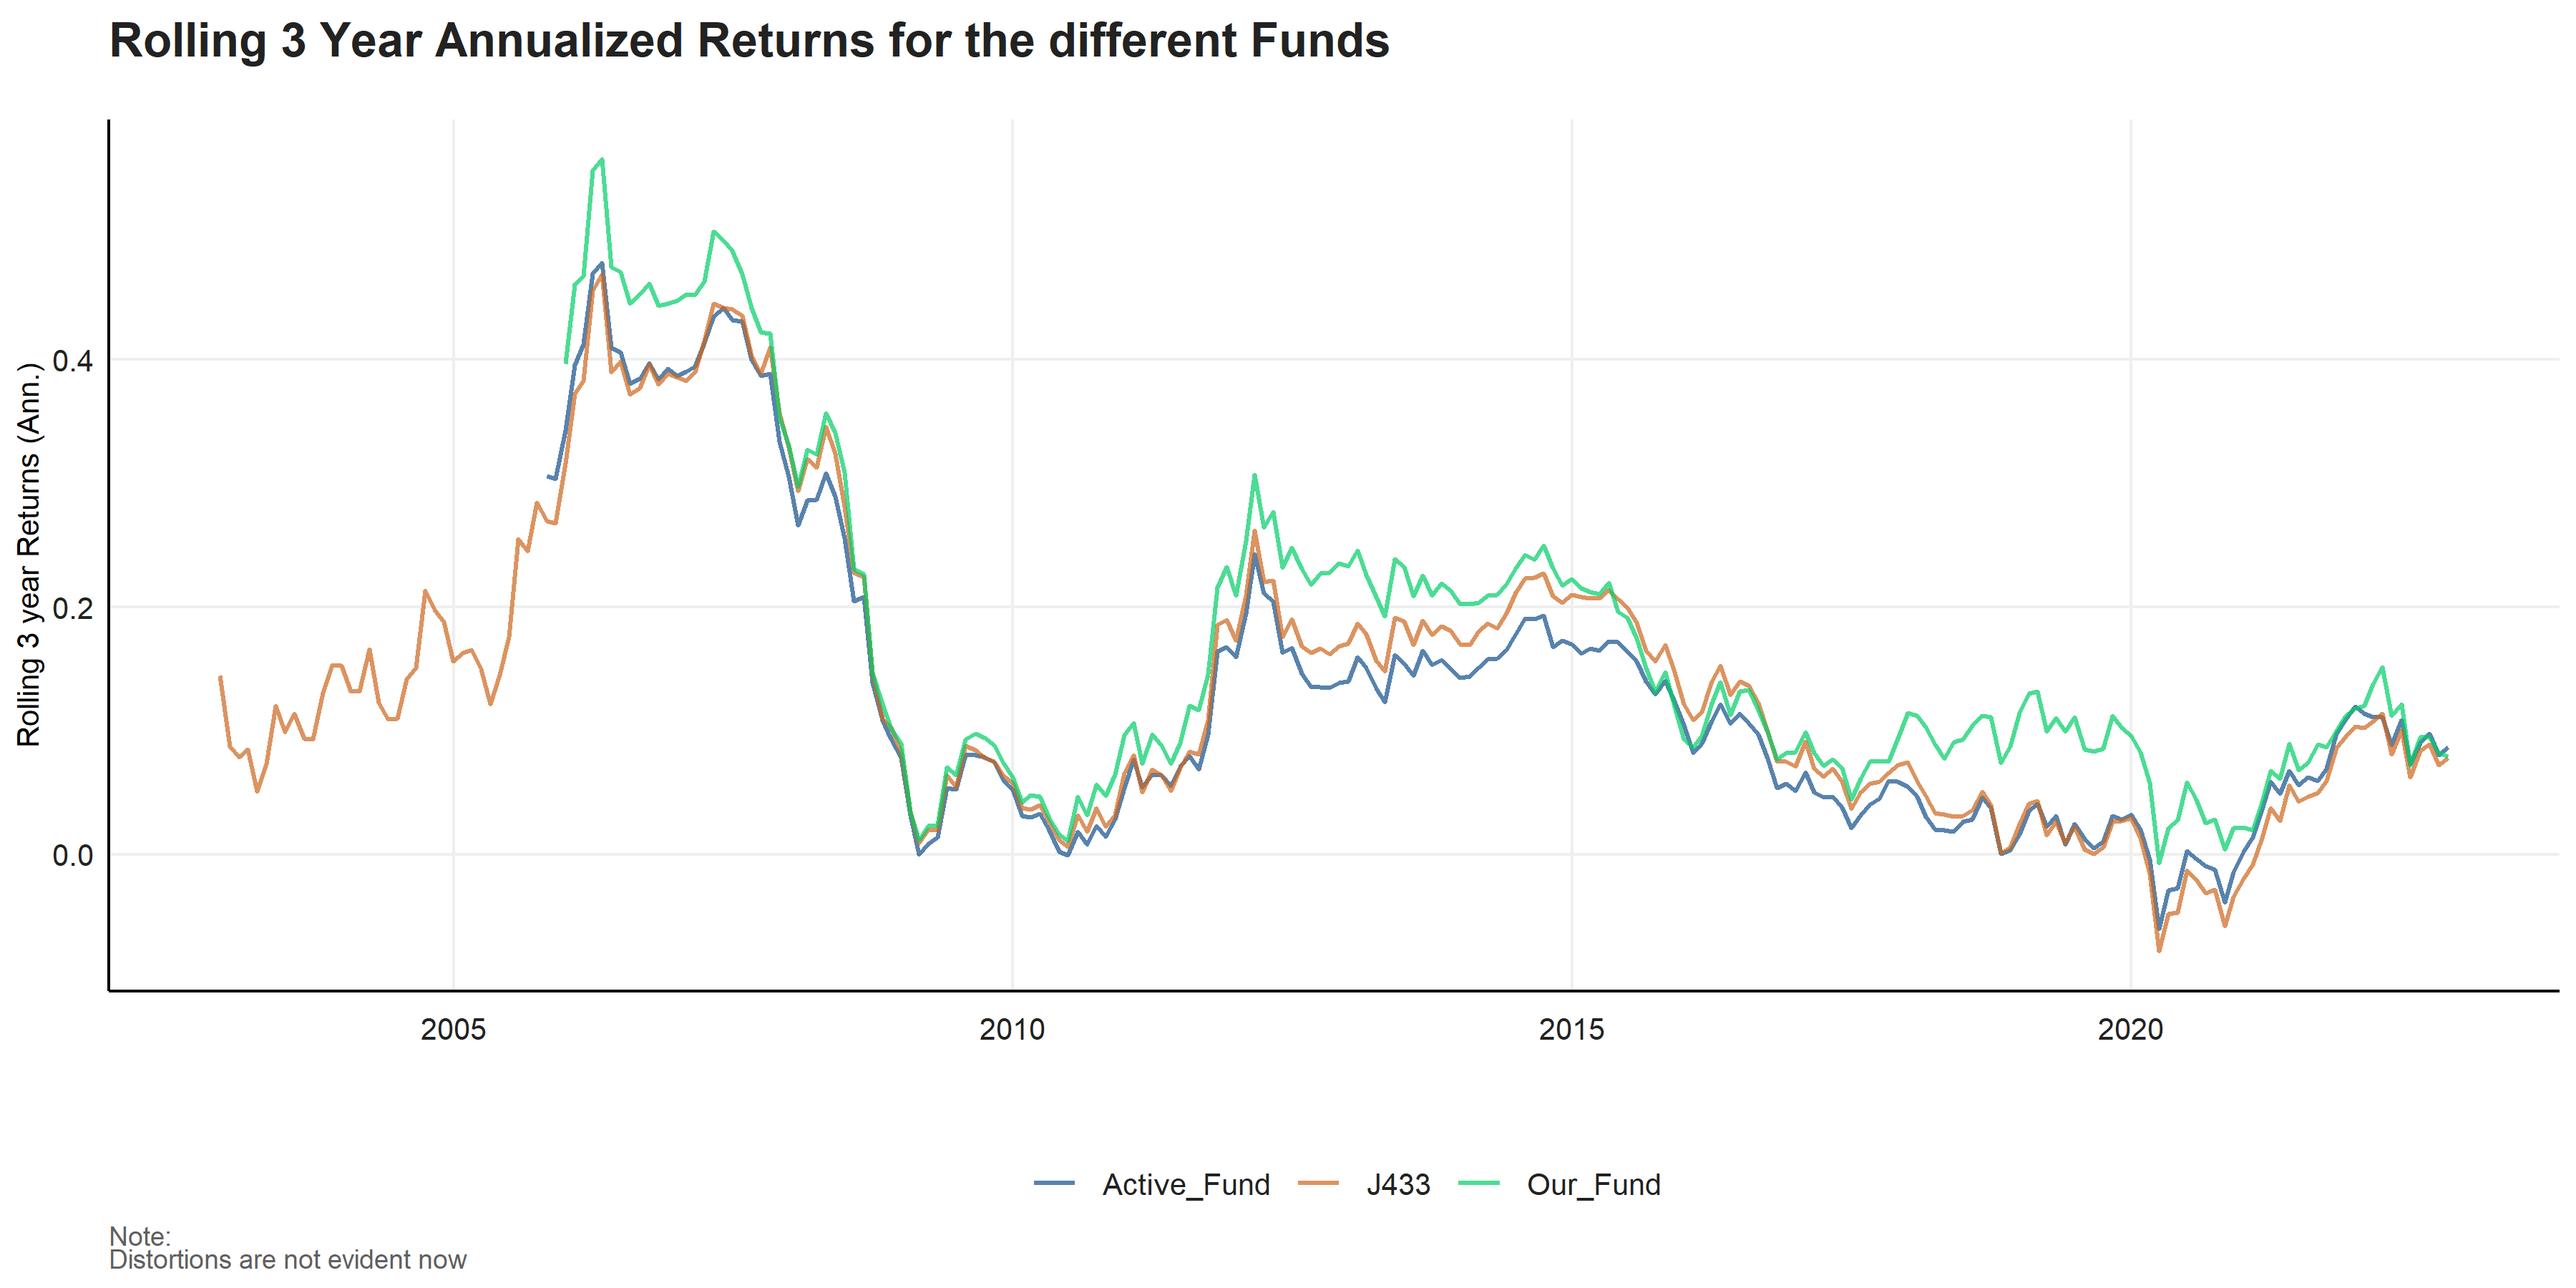
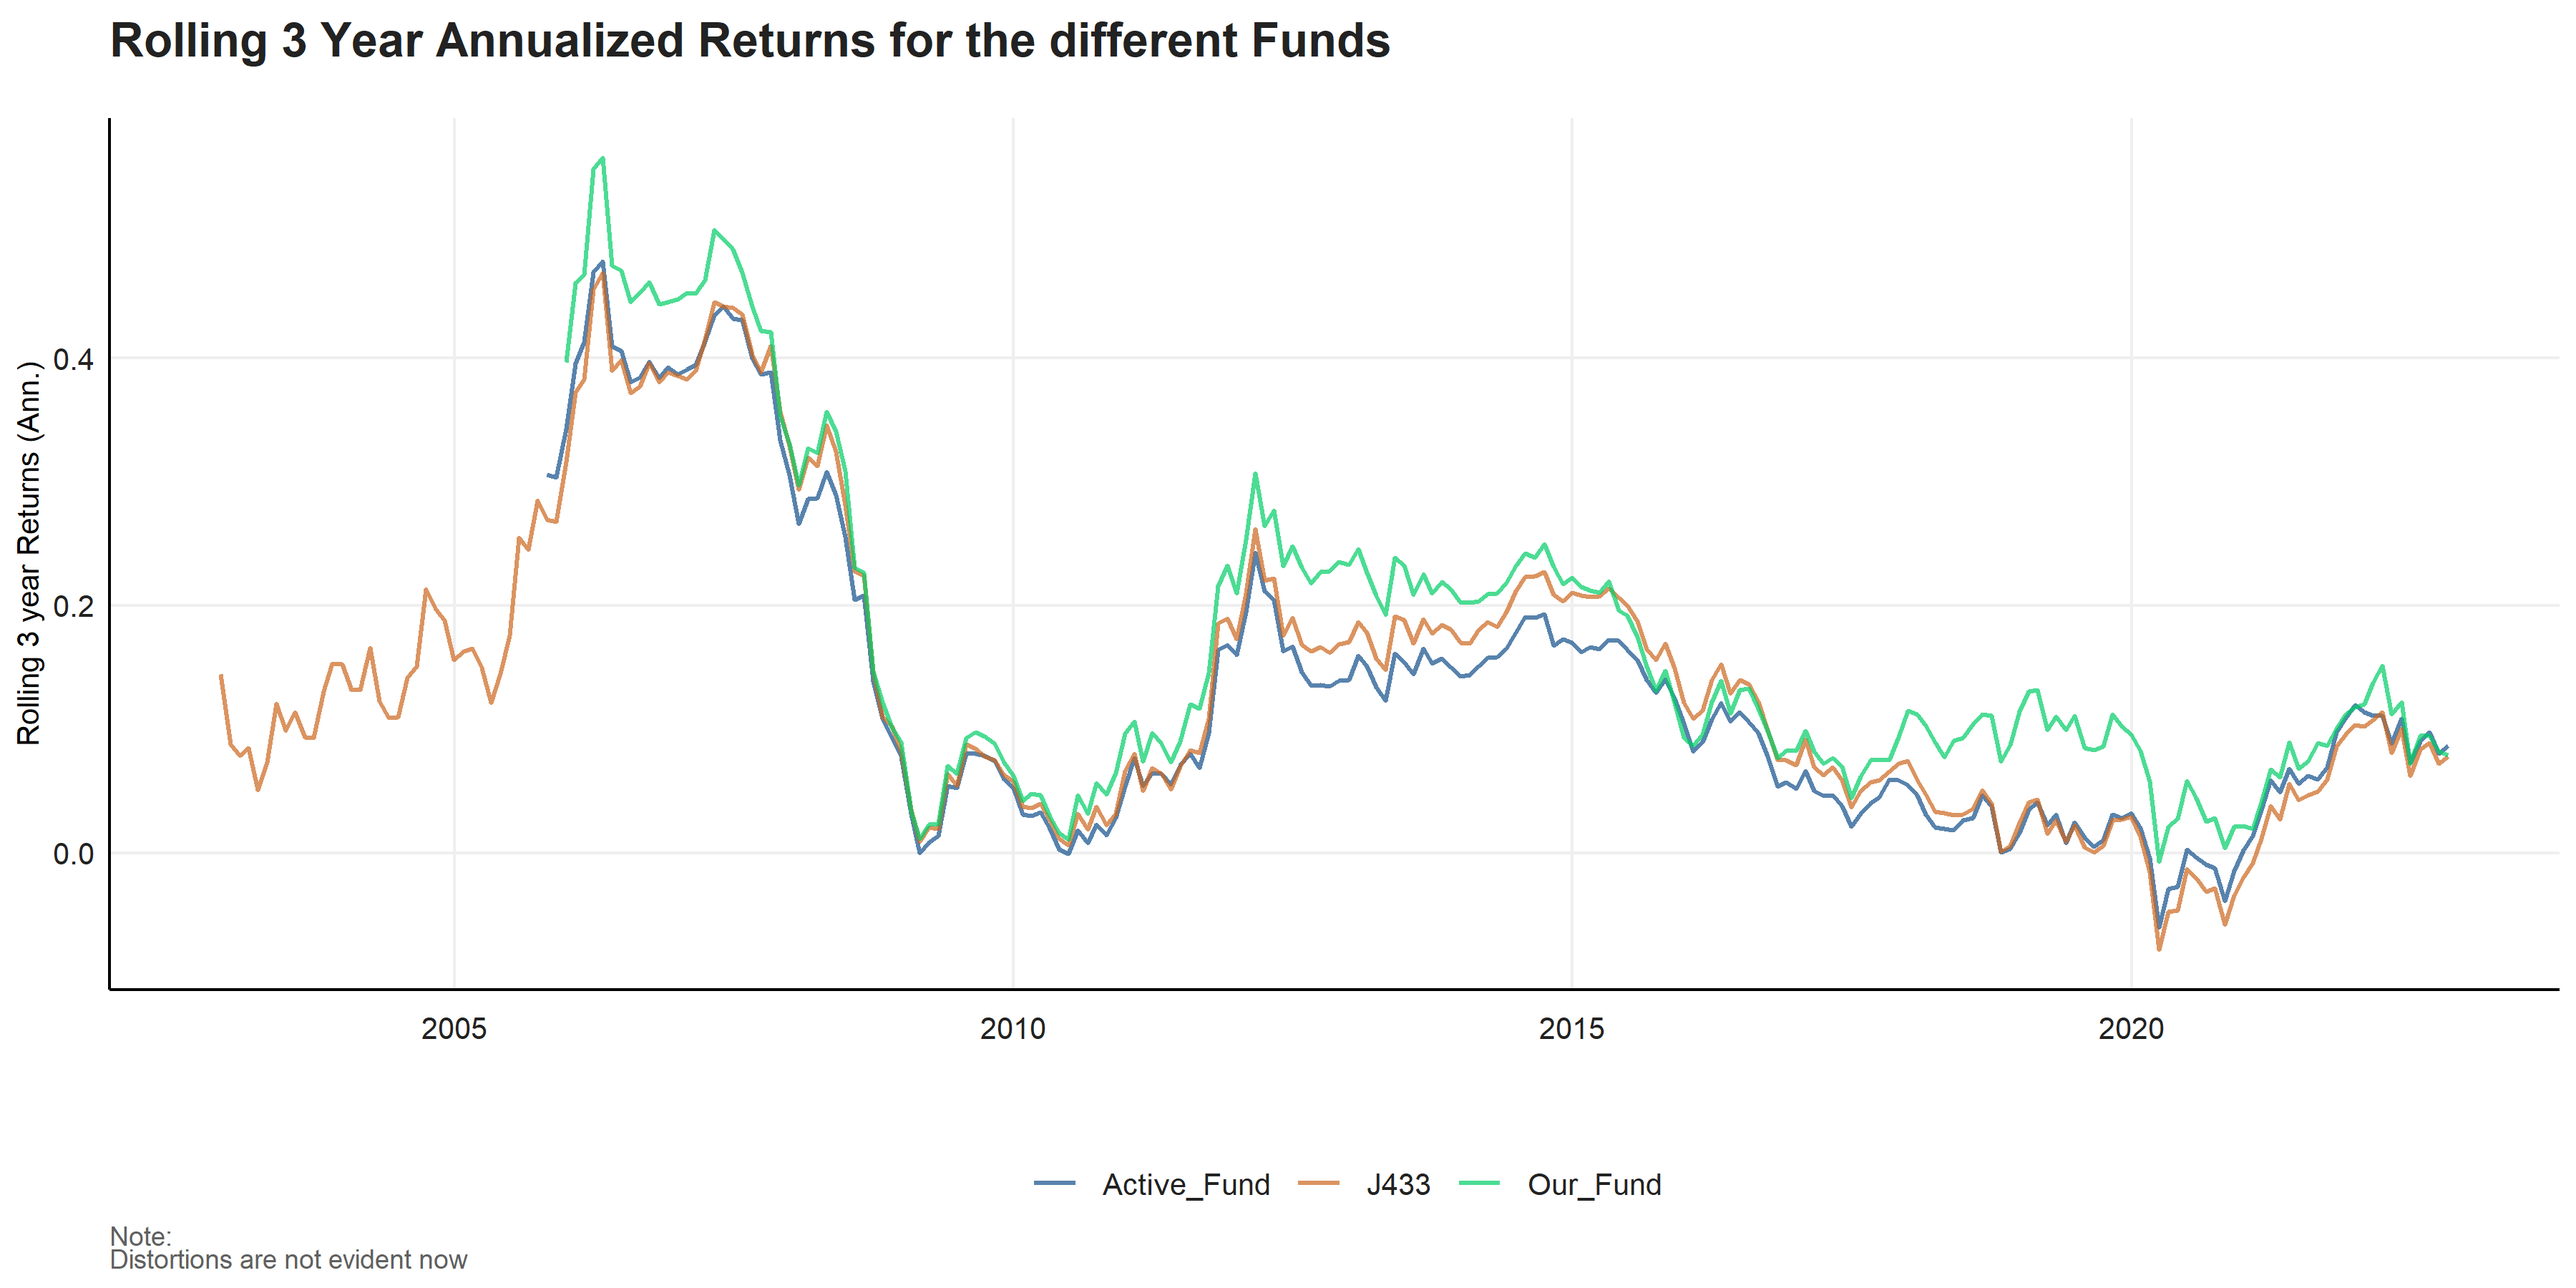
Final  :+1:

diff --git a/README.md b/README.md
@@ -1,44 +1,11 @@
 # Financial Econometrics Practical
 
-This is my README for the Financial Econometrics Practical Exam 2022
+This README contains all my solutions for the Financial Econometrics
+Practical Exam 2022. All the functions I use throughout are located in
+the code folder.
 
 ``` r
-#rm(list = ls()) 
-#gc() 
-
-library(tidyverse)
-```
-
-    ## -- Attaching packages --------------------------------------- tidyverse 1.3.2 --
-    ## v ggplot2 3.4.0      v purrr   0.3.4 
-    ## v tibble  3.1.7      v dplyr   1.0.10
-    ## v tidyr   1.2.0      v stringr 1.4.0 
-    ## v readr   2.1.2      v forcats 0.5.1 
-    ## -- Conflicts ------------------------------------------ tidyverse_conflicts() --
-    ## x dplyr::filter() masks stats::filter()
-    ## x dplyr::lag()    masks stats::lag()
-
-``` r
-library(zoo)
-```
-
-    ## 
-    ## Attaching package: 'zoo'
-    ## 
-    ## The following objects are masked from 'package:base':
-    ## 
-    ##     as.Date, as.Date.numeric
-
-``` r
-library(factoextra)
-```
-
-    ## Welcome! Want to learn more? See two factoextra-related books at https://goo.gl/ve3WBa
-
-``` r
-pacman::p_load("MTS", "robustbase")
-
-pacman::p_load("tidyverse", "devtools", "rugarch", "rmgarch", 
+pacman::p_load("tidyverse", "devtools", "rugarch", "rmgarch", "zoo", "factoextra",
      "forecast", "tbl2xts", "lubridate", "PerformanceAnalytics", 
      "ggthemes", "dplyr", "cowplot", "fmxdat", "glue","MTS", "robustbase","tidyr") 
 
@@ -140,7 +107,7 @@ labs(title = "Cumulative Returns of Funds",
      
     subtitle = "", caption = "Note:\nStarting dates differ") +
     
-    theme_fmx(title.size = ggpts(40), subtitle.size = ggpts(5), 
+    theme_fmx(title.size = ggpts(50), subtitle.size = ggpts(5),
               
         caption.size = ggpts(25), CustomCaption = T)
 
@@ -209,7 +176,7 @@ RollSD_gg <- RollSD_combine_funds %>%
     
     ggplot() + 
     
-    geom_line(aes(date, RollRets, color = Tickers), alpha = 0.7, size = 1.25) + 
+    geom_line(aes(date, RollRets, color = Tickers), alpha = 0.7, size = 0.75) + 
     
     labs(title = "Rolling 3 Year Annualized Returns for the different Funds",
          
@@ -217,7 +184,7 @@ RollSD_gg <- RollSD_combine_funds %>%
          
          caption = "Note:\nDistortions are not evident now") + 
     
-    theme_fmx(title.size = ggpts(30), 
+    theme_fmx(title.size = ggpts(45), 
               subtitle.size = ggpts(5), caption.size = ggpts(25), CustomCaption = T) + 
     fmx_cols()
 ```
@@ -277,7 +244,7 @@ dlog_fund_ret_plot <- dlog_fund_ret %>%
     
     ggplot() + 
     
-    geom_line(aes(date, RollSD, color = Tickers), alpha = 0.7, size = 1.25) + 
+    geom_line(aes(date, RollSD, color = Tickers), alpha = 0.7, size = 0.75) + 
     
     labs(title = "Rolling 3 Year Annualized SD for the different Funds", 
          
@@ -285,7 +252,7 @@ dlog_fund_ret_plot <- dlog_fund_ret %>%
     
     caption = "Note:\nDistortions are not evident now.") + 
     
-    theme_fmx(title.size = ggpts(30), 
+    theme_fmx(title.size = ggpts(45), 
               
     subtitle.size = ggpts(5), caption.size = ggpts(25), CustomCaption = T) + 
     
@@ -1387,7 +1354,7 @@ finplot(mean_cor_plot)
 
 ![](README_files/figure-markdown_github/unnamed-chunk-24-1.png)
 
-# Question 5
+# Question 5: Volatility and GARCH estimates
 
 The study of volatility is particularly important in financial
 modelling. Thus, in this question I will look at the South African ZAR
@@ -1614,7 +1581,7 @@ print(tab, type="html")
 ```
 
 <!-- html table generated in R 4.1.3 by xtable 1.8-4 package -->
-<!-- Sun Nov 27 23:12:15 2022 -->
+<!-- Mon Nov 28 01:06:59 2022 -->
 <table border="1">
 <tr>
 <th>
@@ -1810,7 +1777,7 @@ garch_fit_gjrGARCH
     ## 4    50    104.96  0.000005948
     ## 
     ## 
-    ## Elapsed time : 0.5296772
+    ## Elapsed time : 0.528686
 
 ``` r
 pacman::p_load(xtable)
@@ -1822,7 +1789,7 @@ print(Table, type="html")
 ```
 
 <!-- html table generated in R 4.1.3 by xtable 1.8-4 package -->
-<!-- Sun Nov 27 23:12:16 2022 -->
+<!-- Mon Nov 28 01:07:00 2022 -->
 <table border="1">
 <tr>
 <th>
@@ -2071,7 +2038,7 @@ finplot(Vol_compare_plot)
 
 ![](README_files/figure-markdown_github/unnamed-chunk-42-1.png)
 
-# Question 6
+# Question 6: MSCI Funds
 
 Diversification across various asset classes is a pivotal step for
 portfolio construction due to its risk-mitigating capabilities. As such,
@@ -2430,7 +2397,7 @@ Although efficient, the DCC model estimations makes some strong
 assumptionss, e.g., it assumes a constant structure to the correlation
 dynamics.Therefore, I will also use The GoGARCH model which is highly
 efficient uses less parameter intensive estimation techniques to
-decompose the var-covar matrix into orthogonal sources of volatility,
+decompose the var-covar matrix into orthogonal sources of volatility
 
 -   Go Garch
 
@@ -2678,7 +2645,7 @@ print(tab_pca, type="html")
 ```
 
 <!-- html table generated in R 4.1.3 by xtable 1.8-4 package -->
-<!-- Sun Nov 27 23:12:59 2022 -->
+<!-- Mon Nov 28 01:07:41 2022 -->
 <table border="1">
 <tr>
 <th>
@@ -2793,7 +2760,7 @@ fmxdat::finplot(gviolion, y.pct = T, y.pct_acc = 1, x.vert = T)
 From these graphs it appears that the US 10 year bond and Oil show the
 highest degrees of dispersion.
 
-# Question 7
+# Question 7: Portfolio Construction
 
 For this question I will construct a Global Balanced Index Fund
 portfolio using a mix of traded global indexes.
@@ -2929,10 +2896,6 @@ Amat <- cbind(1, diag(NStox), -diag(NStox), Eq_mat, C_B_mat)
 # Calculate optimal rolling weights for each type of portfolio optimization
 
 EOM_datevec <- combine_assets_tut %>% 
-    
-    #filter(Tickers %in% comb_assets_3_years) %>% 
-    
-    #filter(date >= Start_Date[[1]]) %>% 
     
     select(date) %>% 
     
